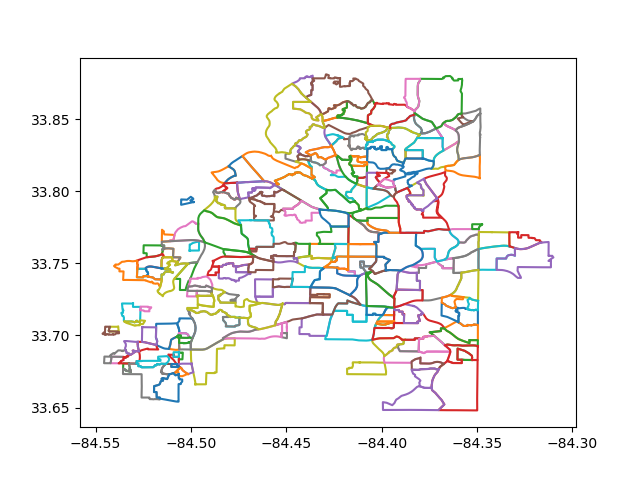
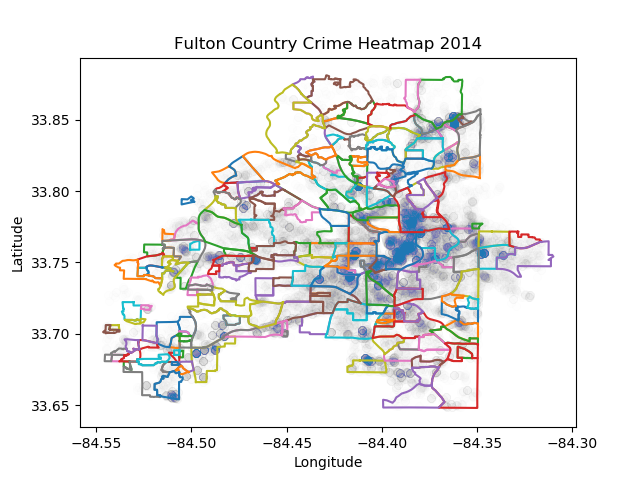
with labels

diff --git a/year-over-year-crime.py b/year-over-year-crime.py
@@ -56,6 +56,9 @@ def write_crime_jpeg(year):
 	y = crime_year_df["Latitude"]
 
 	plt.scatter(x, y, alpha=.005)
+	plt.xlabel("Longitude")
+	plt.ylabel("Latitude")
+	plt.title(f"Fulton Country Crime Heatmap {year}")
 	plt.savefig(f"./year-over-year-scatter-plots/crime_{year}")
 	plt.close()
 
